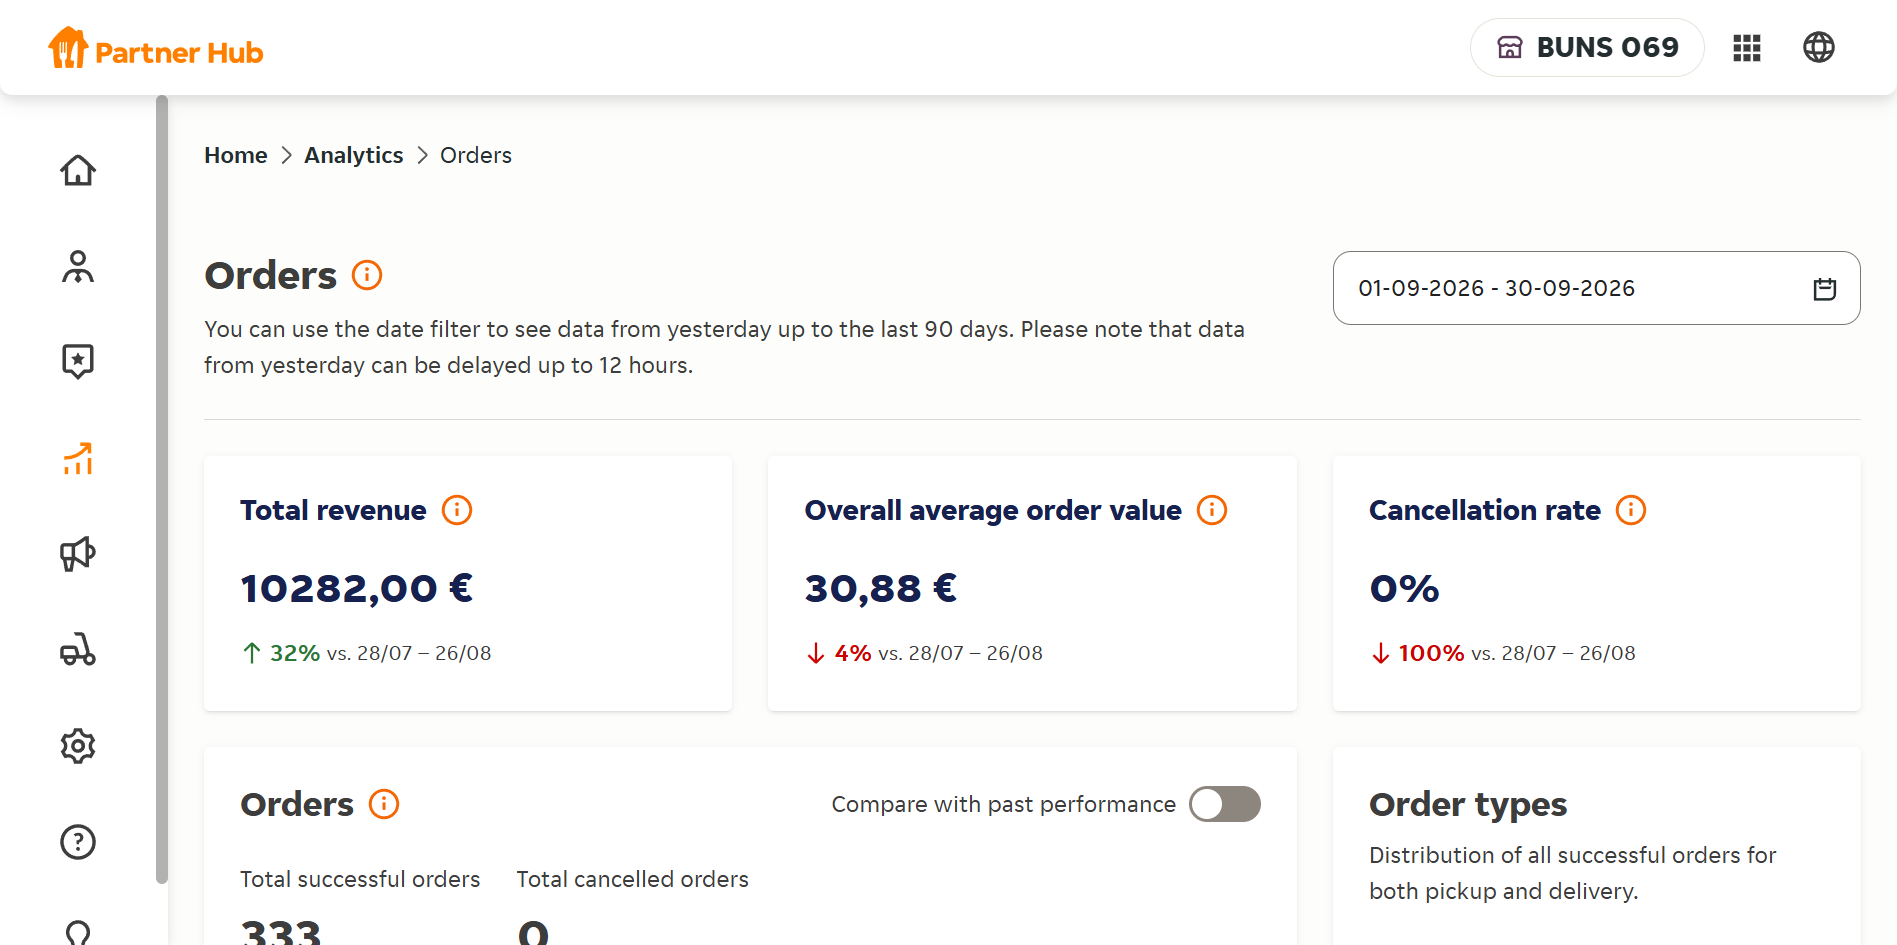
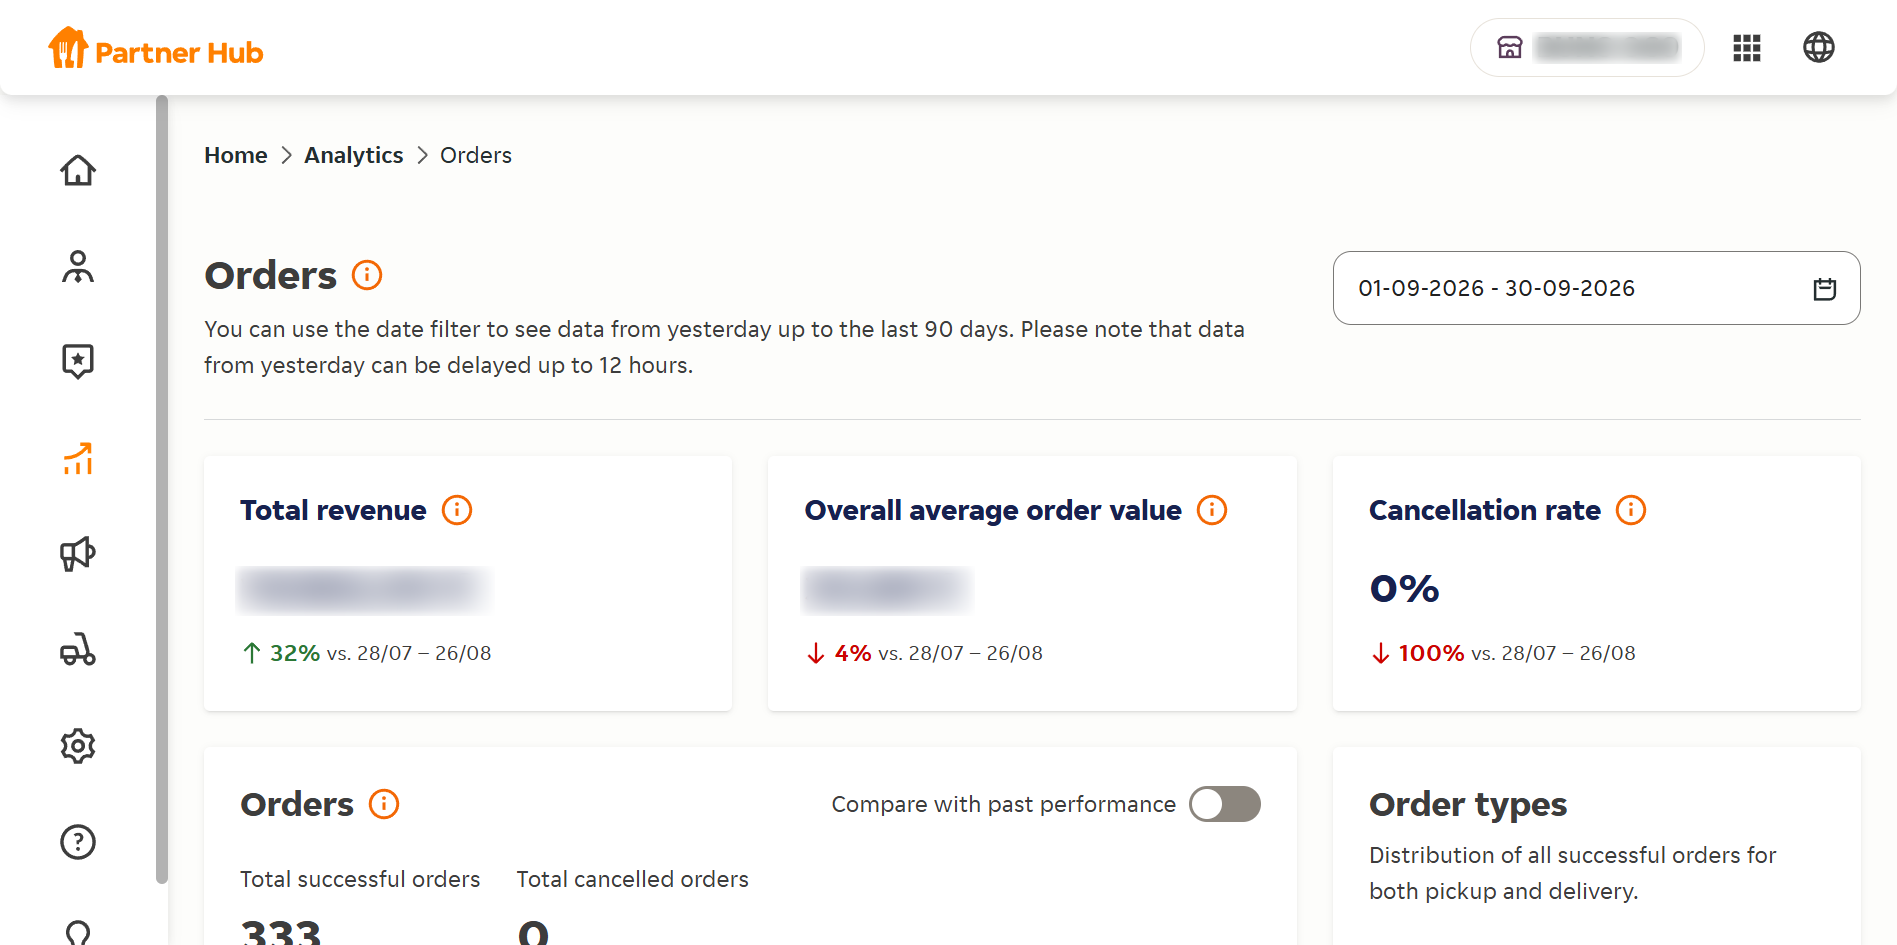
new changes

Changed region(s): [[0.1244, 0.5831, 0.2488, 0.6751], [0.4043, 0.5831, 0.5287, 0.6751], [0.8086, 0.0307, 0.902, 0.0921]]

diff --git a/src/data/blogContent.ts b/src/data/blogContent.ts
@@ -1451,12 +1451,12 @@ export const bunsPostTranslations: Record<'en' | 'de', ArticleContent> = {
     },
     introParagraphs: [
       'In digital food commerce, visual presentation and storefront friction dictate purchase decisions: customers do not buy what they cannot clearly evaluate. Prior to partnering with Nordible, Buns 069 operated on online ordering platforms with bare, text-only listings. Decision friction was high, average basket sizes remained constrained, and the store lacked algorithmic reach.',
-      'Nordible engineered a high-converting digital storefront architecture, visual asset systems, and conversion funnel optimization. Immediately following this rollout, customer demand surged across major digital channels—scaling monthly online sales past €17,250+, sustaining an exceptional 0% cancellation rate on Lieferando (333 successful orders), and driving a +74% October revenue surge on Uber Eats with a 21% store conversion rate.'
+      'Nordible engineered a high-converting digital storefront architecture, visual asset systems, and conversion funnel optimization. Immediately following this rollout, customer demand surged across major digital channels—driving +32% Lieferando revenue growth with an unbroken 0% cancellation rate (333 successful orders), +48% 30-day sales growth on Uber Eats, and a +74% October revenue sprint with a 21% store conversion rate. To respect platform confidentiality, actual Euro figures and store identifiers inside the merchant portal screenshots are blurred.'
     ],
     metrics: [
       {
-        label: 'Monthly Digital Sales Volume',
-        value: '€17,250+',
+        label: 'Lieferando Revenue Growth',
+        value: '+32% Growth',
         icon: 'trending'
       },
       {
@@ -1477,7 +1477,7 @@ export const bunsPostTranslations: Record<'en' | 'de', ArticleContent> = {
     heroImage: {
       src: '/images/buns-069/buns-069-homepage-hero.png',
       alt: 'Buns 069 Online Ordering Website and Homemade Burger Experience',
-      caption: 'Buns 069 Official Website & Digital Storefront · Frankfurt am Main / Offenbach',
+      caption: 'Buns 069 Digital Storefront Experience · Brand Identifiers Blurred in Preview',
       badge: 'Digital Commerce & Online Ordering',
       explanation: 'High-converting digital storefront architecture and ordering funnel engineering driving direct customer acquisition and online sales.',
       businessBenefit: 'Conversion-engineered digital storefronts and professional asset architecture elevated brand authority and sparked immediate sales surges across all digital channels.'
@@ -1500,7 +1500,7 @@ export const bunsPostTranslations: Record<'en' | 'de', ArticleContent> = {
           },
           {
             title: 'Cognitive Combo Bundling',
-            desc: 'Restructured visual order flows and combo pairings (Burger + Artisanal Fries + Drink), prompting higher basket values (€30.88 on Lieferando, €35.74 on Uber Eats).',
+            desc: 'Restructured visual order flows and combo pairings (Burger + Artisanal Fries + Drink), lifting average ticket size by +8% on Uber Eats.',
             badge: 'Basket Architecture',
             icon: 'zap'
           },
@@ -1520,19 +1520,19 @@ export const bunsPostTranslations: Record<'en' | 'de', ArticleContent> = {
       },
       {
         number: '02',
-        title: 'Lieferando Impact: €10,282 Revenue & Flawless 0% Cancellation Rate',
-        businessTakeaway: 'Following the visual redesign, Lieferando monthly turnover expanded by +32% to €10,282 across 333 orders with zero kitchen errors or cancelled tickets.',
+        title: 'Lieferando Impact: +32% Revenue Growth & Flawless 0% Cancellation Rate',
+        businessTakeaway: 'Following the visual redesign, Lieferando monthly turnover expanded by +32% across 333 orders with zero kitchen errors or cancelled tickets.',
         paragraphs: [
-          'In September 2026, the Lieferando Partner Hub recorded €10,282.00 in total revenue for Buns 069—representing a +32% increase compared to the previous four-week period.',
+          'In September 2026, the Lieferando Partner Hub recorded a +32% revenue increase for Buns 069 compared to the previous four-week period.',
           'Most impressively, across all 333 incoming orders, the store achieved a 0% cancellation rate (a 100% improvement over previous periods). In delivery operations, every cancelled order costs the kitchen wasted ingredients and damages marketplace algorithm standing. Achieving 0% cancellations signals optimal kitchen readiness and guarantees maximum profitability.'
         ],
         images: [
           {
             src: '/images/buns-069/lieferando-orders-revenue.png',
-            alt: 'Lieferando Partner Hub Analytics Buns 069 September 2026',
-            caption: 'Lieferando Partner Hub: €10,282.00 Total Revenue (↑ 32%), 333 Orders, 0% Cancellation Rate',
+            alt: 'Lieferando Partner Hub Analytics Buns 069 September 2026 (Revenue Figures Blurred)',
+            caption: 'Lieferando Partner Hub: +32% Revenue Growth, 333 Orders, 0% Cancellation Rate (Euro amounts & store badge blurred)',
             badge: '100% Delivery Reliability',
-            explanation: 'Official merchant portal metrics confirming €10,282 in gross delivery revenue and €30.88 average order value across 333 fulfilled tickets.',
+            explanation: 'Official merchant portal metrics confirming +32% gross delivery revenue growth and 333 fulfilled tickets with absolute Euro figures redacted for confidentiality.',
             businessBenefit: 'Reliable high-volume delivery cash flow with zero wasted inventory.'
           }
         ]
@@ -1540,26 +1540,26 @@ export const bunsPostTranslations: Record<'en' | 'de', ArticleContent> = {
       {
         number: '03',
         title: 'Uber Eats Acceleration: +48% Monthly Baseline & +74% October Surge',
-        businessTakeaway: 'On Uber Eats, the visual update drove €6,976 in 30 days (+48% sales), followed by an accelerated October sprint generating €4,432 in just 16 days (+74% growth).',
+        businessTakeaway: 'On Uber Eats, the visual update drove +48% sales growth in 30 days, followed by an accelerated October sprint delivering +74% growth in just 16 days.',
         paragraphs: [
-          'On Uber Eats, the impact of professional dish photography was immediately visible: the store generated €6,976 in sales over 30 days (Sep 14 – Oct 13, 2026), marking a +48% surge in sales and a +33% increase in booked orders (200 total orders).',
-          'Entering October 2026, growth accelerated further as platform algorithms rewarded the higher engagement: the first 16 days produced €4,432 in sales (a +74% leap over the preceding cycle) across 124 booked orders (+61%). Average ticket size expanded to €35.74 (+8%), with 21% of all menu visitors completing a purchase.'
+          'On Uber Eats, the impact of professional dish photography was immediately visible: the store achieved a +48% surge in sales over 30 days (Sep 14 – Oct 13, 2026) alongside a +33% increase in booked orders (200 total orders).',
+          'Entering October 2026, growth accelerated further as platform algorithms rewarded the higher engagement: the first 16 days delivered a +74% leap in sales over the preceding cycle across 124 booked orders (+61%). Average ticket size expanded by +8%, with 21% of all menu visitors completing a purchase.'
         ],
         images: [
           {
             src: '/images/buns-069/uber-eats-30-days-growth.png',
-            alt: 'Uber Eats Manager 30 Days Performance Buns 069',
-            caption: 'Uber Eats Manager: €6,976 Sales (↑ 48%) and 200 Booked Orders (↑ 33%)',
+            alt: 'Uber Eats Manager 30 Days Performance Buns 069 (Revenue Figures Blurred)',
+            caption: 'Uber Eats Manager: +48% Sales Growth and 200 Booked Orders (↑ 33%) · Revenue amounts blurred',
             badge: '+48% 30-Day Growth',
-            explanation: 'Verified 30-day dashboard verifying 200 booked orders and €6,976 in revenue.',
+            explanation: 'Verified 30-day dashboard confirming +48% revenue growth and 200 booked orders (+33%), with Euro figures blurred for confidentiality.',
             businessBenefit: 'Consistent order volume expansion across non-peak delivery windows.'
           },
           {
             src: '/images/buns-069/uber-eats-october-surge.png',
-            alt: 'Uber Eats Manager October Sprint €4,432 Sales',
-            caption: 'Uber Eats Sprint (Oct 1–16): €4,432 Sales (↑ 74%), 124 Orders (↑ 61%), €35.74 Ticket Size',
+            alt: 'Uber Eats Manager October Sprint +74% Growth (Revenue Figures Blurred)',
+            caption: 'Uber Eats Sprint (Oct 1–16): +74% Sales Growth, 124 Orders (↑ 61%), +8% Ticket Size · Revenue amounts blurred',
             badge: '+74% Sprint Surge',
-            explanation: '16-day acceleration metric showing €4,432 in gross sales, 21% menu conversion rate, and €35.74 average basket size.',
+            explanation: '16-day acceleration metric showing +74% sales growth, 21% menu conversion rate, and +8% average basket lift with Euro values redacted.',
             businessBenefit: 'Higher revenue per ticket maximizes delivery courier efficiency and net margin.'
           }
         ]
@@ -1569,10 +1569,10 @@ export const bunsPostTranslations: Record<'en' | 'de', ArticleContent> = {
         title: 'Key Takeaways for Food & Retail Operators',
         businessTakeaway: 'Predictable digital delivery requires active menu engineering, cross-platform presence, and operational precision rather than passive listing.',
         paragraphs: [
-          'The combined digital delivery volume for Buns 069 across Lieferando and Uber Eats now exceeds €17,250 per month, supported by over 533 orders and an average ticket value above €32.50.',
+          'Across Lieferando and Uber Eats, Buns 069 scaled to 533+ combined orders with sustained +32% to +74% revenue growth momentum and higher average basket sizes.',
           'By treating delivery marketplaces as active digital storefronts—optimizing photography, bundle logic, and kitchen fulfillment—hospitality brands can build robust, crisis-resilient revenue streams that complement in-store dining.'
         ],
-        quote: 'Buns 069 demonstrates that digital delivery channels are not just a side activity. When transformed from image-less listings into high-converting visual storefronts with operational rigor, they generate over €17,250 in predictable monthly revenue with 0% wasted orders.'
+        quote: 'Buns 069 demonstrates that digital delivery channels are not just a side activity. When transformed from image-less listings into high-converting visual storefronts with operational rigor, they drive +32% to +74% revenue growth with 0% wasted orders.'
       }
     ],
     cta: {
@@ -1604,12 +1604,12 @@ export const bunsPostTranslations: Record<'en' | 'de', ArticleContent> = {
     },
     introParagraphs: [
       'Im digitalen Commerce entscheiden visuelle Führung und reibungslose Nutzerführung über den Kaufabschluss: Kunden kaufen nicht, was sie nicht überzeugend wahrnehmen können. Vor der Zusammenarbeit mit Nordible war Buns 069 auf den großen Plattformen mit rein textbasierten Einträgen ohne visuelle Führung vertreten. Die Folge: Hohe Kaufzurückhaltung, ungenutzte Warenkorbpotenziale und algorithmische Benachteiligung im Plattform-Ranking.',
-      'Nordible implementierte eine konversionsstarke Storefront-Architektur und optimierte die digitalen Bestelltrichter. Unmittelbar nach Einführung dieser Aufwertung explodierte die Bestellnachfrage über alle digitalen Kanäle: Der monatliche Gesamtumsatz kletterte auf über 17.250 €, Lieferando erzielte 10.282 € bei einer makellosen Stornoquote von 0 % (333 erfolgreiche Bestellungen) und Uber Eats beschleunigte im Oktober um +74 % bei einer Store-Konversion von 21 %.'
+      'Nordible implementierte eine konversionsstarke Storefront-Architektur und optimierte die digitalen Bestelltrichter. Unmittelbar nach Einführung dieser Aufwertung stieg die Bestellnachfrage über alle digitalen Kanäle stark an: Lieferando verzeichnete +32 % Umsatzwachstum bei einer makellosen Stornoquote von 0 % (333 erfolgreiche Bestellungen), Uber Eats wuchs in 30 Tagen um +48 % und beschleunigte im Oktober um +74 % bei einer Store-Konversion von 21 %. Zum Schutz vertraulicher Händlerdaten sind absolute Euro-Beträge und Store-Kennungen in den Screenshots unkenntlich gemacht.'
     ],
     metrics: [
       {
-        label: 'Monatlicher digitaler Bestellumsatz',
-        value: '17.250 €+',
+        label: 'Lieferando-Umsatzplus',
+        value: '+32 % Wachstum',
         icon: 'trending'
       },
       {
@@ -1630,7 +1630,7 @@ export const bunsPostTranslations: Record<'en' | 'de', ArticleContent> = {
     heroImage: {
       src: '/images/buns-069/buns-069-homepage-hero.png',
       alt: 'Buns 069 Online-Bestellplattform und Homemade Burger Experience',
-      caption: 'Buns 069 Offizielle Website & Digitaler Storefront · Frankfurt am Main / Offenbach',
+      caption: 'Buns 069 Digitaler Storefront · Marken- und Kontaktdaten in der Vorschau weichgezeichnet',
       badge: 'Digital Commerce & Online-Bestellsystem',
       explanation: 'Hochkonvertierende digitale Storefront-Architektur und optimierte Bestelltrichter zur direkten Kundengewinnung und Erlössteigerung.',
       businessBenefit: 'Conversion-optimierte Storefronts und professionelle Asset-Architektur steigern die Markenwahrnehmung und lösten eine sofortige Nachfragewelle über alle digitalen Kanäle aus.'
@@ -1653,7 +1653,7 @@ export const bunsPostTranslations: Record<'en' | 'de', ArticleContent> = {
           },
           {
             title: 'Kognitive Menü-Bundles',
-            desc: 'Strukturierte visuelle Kombinationen (Burger + Signature-Pommes + Dip) steigerten den Durchschnittswarenkorb auf 30,88 € (Lieferando) und 35,74 € (Uber Eats).',
+            desc: 'Strukturierte visuelle Kombinationen (Burger + Signature-Pommes + Dip) steigerten den Durchschnittswarenkorb auf Uber Eats um +8 %.',
             badge: 'Höherer Bestellwert',
             icon: 'zap'
           },
@@ -1673,19 +1673,19 @@ export const bunsPostTranslations: Record<'en' | 'de', ArticleContent> = {
       },
       {
         number: '02',
-        title: 'Lieferando-Performance: 10.282 € Umsatz & perfekte 0 % Stornorate',
-        businessTakeaway: 'Der Lieferando-Umsatz stieg im Monatsvergleich um +32 % auf 10.282 € bei 333 Bestellungen – ohne eine einzige stornierte Order.',
+        title: 'Lieferando-Performance: +32 % Umsatzwachstum & perfekte 0 % Stornorate',
+        businessTakeaway: 'Der Lieferando-Umsatz stieg im Monatsvergleich um +32 % bei 333 Bestellungen – ohne eine einzige stornierte Order.',
         paragraphs: [
-          'Im September 2026 verzeichnete der Lieferando Partner Hub für Buns 069 einen Gesamtumsatz von 10.282,00 € – ein Zuwachs von +32 % gegenüber dem vorangegangenen 4-Wochen-Zeitraum.',
+          'Im September 2026 verzeichnete der Lieferando Partner Hub für Buns 069 ein Umsatzplus von +32 % gegenüber dem vorangegangenen 4-Wochen-Zeitraum.',
           'Besonders hervorzuheben: Bei allen 333 Bestellungen lag die Stornoquote bei exakt 0 % (eine Verbesserung um 100 %). Jede stornierte Bestellung bedeutet in der Gastronomie weggeworfene Lebensmittel und algorithmische Abstrafung. Eine Quote von 0 % beweist perfekte operative Vorbereitung und sichert vollen Gewinn.'
         ],
         images: [
           {
             src: '/images/buns-069/lieferando-orders-revenue.png',
-            alt: 'Lieferando Partner Hub Daten Buns 069 September 2026',
-            caption: 'Lieferando Partner Hub: 10.282,00 € Gesamtumsatz (↑ 32 %), 333 Bestellungen, 0 % Stornorate',
+            alt: 'Lieferando Partner Hub Daten Buns 069 September 2026 (Umsatzbeträge unkenntlich gemacht)',
+            caption: 'Lieferando Partner Hub: +32 % Umsatzwachstum, 333 Bestellungen, 0 % Stornorate (Euro-Beträge & Store-Kennung unkenntlich)',
             badge: '100 % Lieferzuverlässigkeit',
-            explanation: 'Offizielle Händlerdaten über 10.282 € Bruttolieferumsatz und 30,88 € Durchschnittswarenkorb bei 333 Bestellungen.',
+            explanation: 'Offizielle Händlerdaten über +32 % Bruttolieferumsatz-Wachstum bei 333 Bestellungen – absolute Euro-Beträge aus Vertraulichkeitsgründen unkenntlich gemacht.',
             businessBenefit: 'Zuverlässiger Cashflow aus dem Liefergeschäft ohne Warenverlust.'
           }
         ]
@@ -1693,26 +1693,26 @@ export const bunsPostTranslations: Record<'en' | 'de', ArticleContent> = {
       {
         number: '03',
         title: 'Uber Eats Dynamik: +48 % Monatsplus und +74 % Oktober-Sprint',
-        businessTakeaway: 'Auf Uber Eats erzielte die visuelle Überarbeitung 6.976 € in 30 Tagen (+48 %), gefolgt von einem rasanten Oktobersprint mit 4.432 € in nur 16 Tagen (+74 %).',
+        businessTakeaway: 'Auf Uber Eats erzielte die visuelle Überarbeitung +48 % Umsatzwachstum in 30 Tagen, gefolgt von einem rasanten Oktobersprint mit +74 % Wachstum in nur 16 Tagen.',
         paragraphs: [
-          'Auf Uber Eats zeigte sich die Kraft professioneller Food-Designs sofort: In den 30 Tagen vom 14. Sep bis 13. Okt 2026 stieg der Umsatz auf 6.976 € – ein Plus von +48 % bei 200 Bestellungen (+33 %).',
-          'Im Oktober beschleunigte sich dieser Trend massiv, da der Algorithmus die hohen Interaktionsraten honorierte: In den ersten 16 Tagen wurden bereits 4.432 € umgesetzt (+74 % Zuwachs) bei 124 Bestellungen (+61 %). Der durchschnittliche Warenkorbwert kletterte auf 35,74 € (+8 %), während 21 % aller Menü-Besucher direkt bestellten.'
+          'Auf Uber Eats zeigte sich die Kraft professioneller Food-Designs sofort: In den 30 Tagen vom 14. Sep bis 13. Okt 2026 stieg der Umsatz um +48 % bei 200 Bestellungen (+33 %).',
+          'Im Oktober beschleunigte sich dieser Trend massiv, da der Algorithmus die hohen Interaktionsraten honorierte: In den ersten 16 Tagen wurde ein Umsatzplus von +74 % gegenüber dem Vorzeitraum erzielt, bei 124 Bestellungen (+61 %). Der durchschnittliche Warenkorbwert stieg um +8 %, während 21 % aller Menü-Besucher direkt bestellten.'
         ],
         images: [
           {
             src: '/images/buns-069/uber-eats-30-days-growth.png',
-            alt: 'Uber Eats Manager 30-Tage-Performance Buns 069',
-            caption: 'Uber Eats Manager: 6.976 € Umsatz (↑ 48 %) und 200 Bestellungen (↑ 33 %)',
+            alt: 'Uber Eats Manager 30-Tage-Performance Buns 069 (Umsatzbeträge unkenntlich)',
+            caption: 'Uber Eats Manager: +48 % Umsatzplus und 200 Bestellungen (↑ 33 %) · Euro-Beträge unkenntlich',
             badge: '+48 % 30-Tage-Wachstum',
-            explanation: 'Offizielles Uber-Eats-Dashboard mit 200 verbuchten Bestellungen und 6.976 € Monatsumsatz.',
+            explanation: 'Offizielles Uber-Eats-Dashboard mit +48 % Umsatzwachstum und 200 verbuchten Bestellungen (+33 %), Euro-Beträge aus Vertraulichkeitsgründen unkenntlich.',
             businessBenefit: 'Skalierbares Umsatzwachstum auch außerhalb traditioneller Stoßzeiten.'
           },
           {
             src: '/images/buns-069/uber-eats-october-surge.png',
-            alt: 'Uber Eats Manager Oktober Sprint 4.432 € Umsatz',
-            caption: 'Uber Eats Sprint (1.–16. Okt): 4.432 € Umsatz (↑ 74 %), 124 Bestellungen (↑ 61 %), 35,74 € Warenkorb',
+            alt: 'Uber Eats Manager Oktober Sprint +74 % Wachstum (Umsatzbeträge unkenntlich)',
+            caption: 'Uber Eats Sprint (1.–16. Okt): +74 % Umsatzplus, 124 Bestellungen (↑ 61 %), +8 % Warenkorb · Euro-Beträge unkenntlich',
             badge: '+74 % Sprint-Wachstum',
-            explanation: '16-Tage-Sprintdaten mit 4.432 € Umsatz, 21 % Menü-Konversion und 35,74 € Warenkorbwert.',
+            explanation: '16-Tage-Sprintdaten mit +74 % Umsatzwachstum, 21 % Menü-Konversion und +8 % Warenkorbwert bei geschwärzten/weichgezeichneten Euro-Werten.',
             businessBenefit: 'Höherer Deckungsbeitrag pro Kurierfahrt maximiert den Nettogewinn der Küche.'
           }
         ]
@@ -1722,10 +1722,10 @@ export const bunsPostTranslations: Record<'en' | 'de', ArticleContent> = {
         title: 'Erkenntnisse für Gastronomie & Einzelhandel',
         businessTakeaway: 'Planbarer Liefererfolg verlangt aktive Speisekarten-Architektur, Multi-Plattform-Präsenz und operative Disziplin statt passiver Händlereinträge.',
         paragraphs: [
-          'Das gesamte digitale Liefervolumen von Buns 069 über Lieferando und Uber Eats übersteigt mittlerweile 17.250 € pro Monat, getragen von über 533 Bestellungen und einem durchschnittlichen Warenkorb von über 32,50 €.',
+          'Über Lieferando und Uber Eats hinweg erreichte Buns 069 über 533 kombinierte Bestellungen mit anhaltendem Umsatzwachstum von +32 % bis +74 % und spürbar höheren Warenkorbwerten.',
           'Wer Lieferplattformen als vollwertige digitale Vertriebskanäle versteht – mit optimierten Fotos, smarten Bundles und verlässlicher Küchenabwicklung –, baut sich ein krisensicheres zweites Standbein zum Gastraum auf.'
         ],
-        quote: 'Buns 069 beweist: Lieferservices sind kein notwendiges Übel, sondern ein profitabler Wachstumsmotor. Durch die Verwandlung bildloser Textkarten in ein hochkonvertierendes visuelles Schaufenster generiert das Lokal planbar über 17.250 € Monatsumsatz bei 0 % Stornos.'
+        quote: 'Buns 069 beweist: Lieferservices sind kein notwendiges Übel, sondern ein profitabler Wachstumsmotor. Durch die Verwandlung bildloser Textkarten in ein hochkonvertierendes visuelles Schaufenster erzielt das Lokal +32 % bis +74 % Umsatzwachstum bei 0 % Stornos.'
       }
     ],
     cta: {
